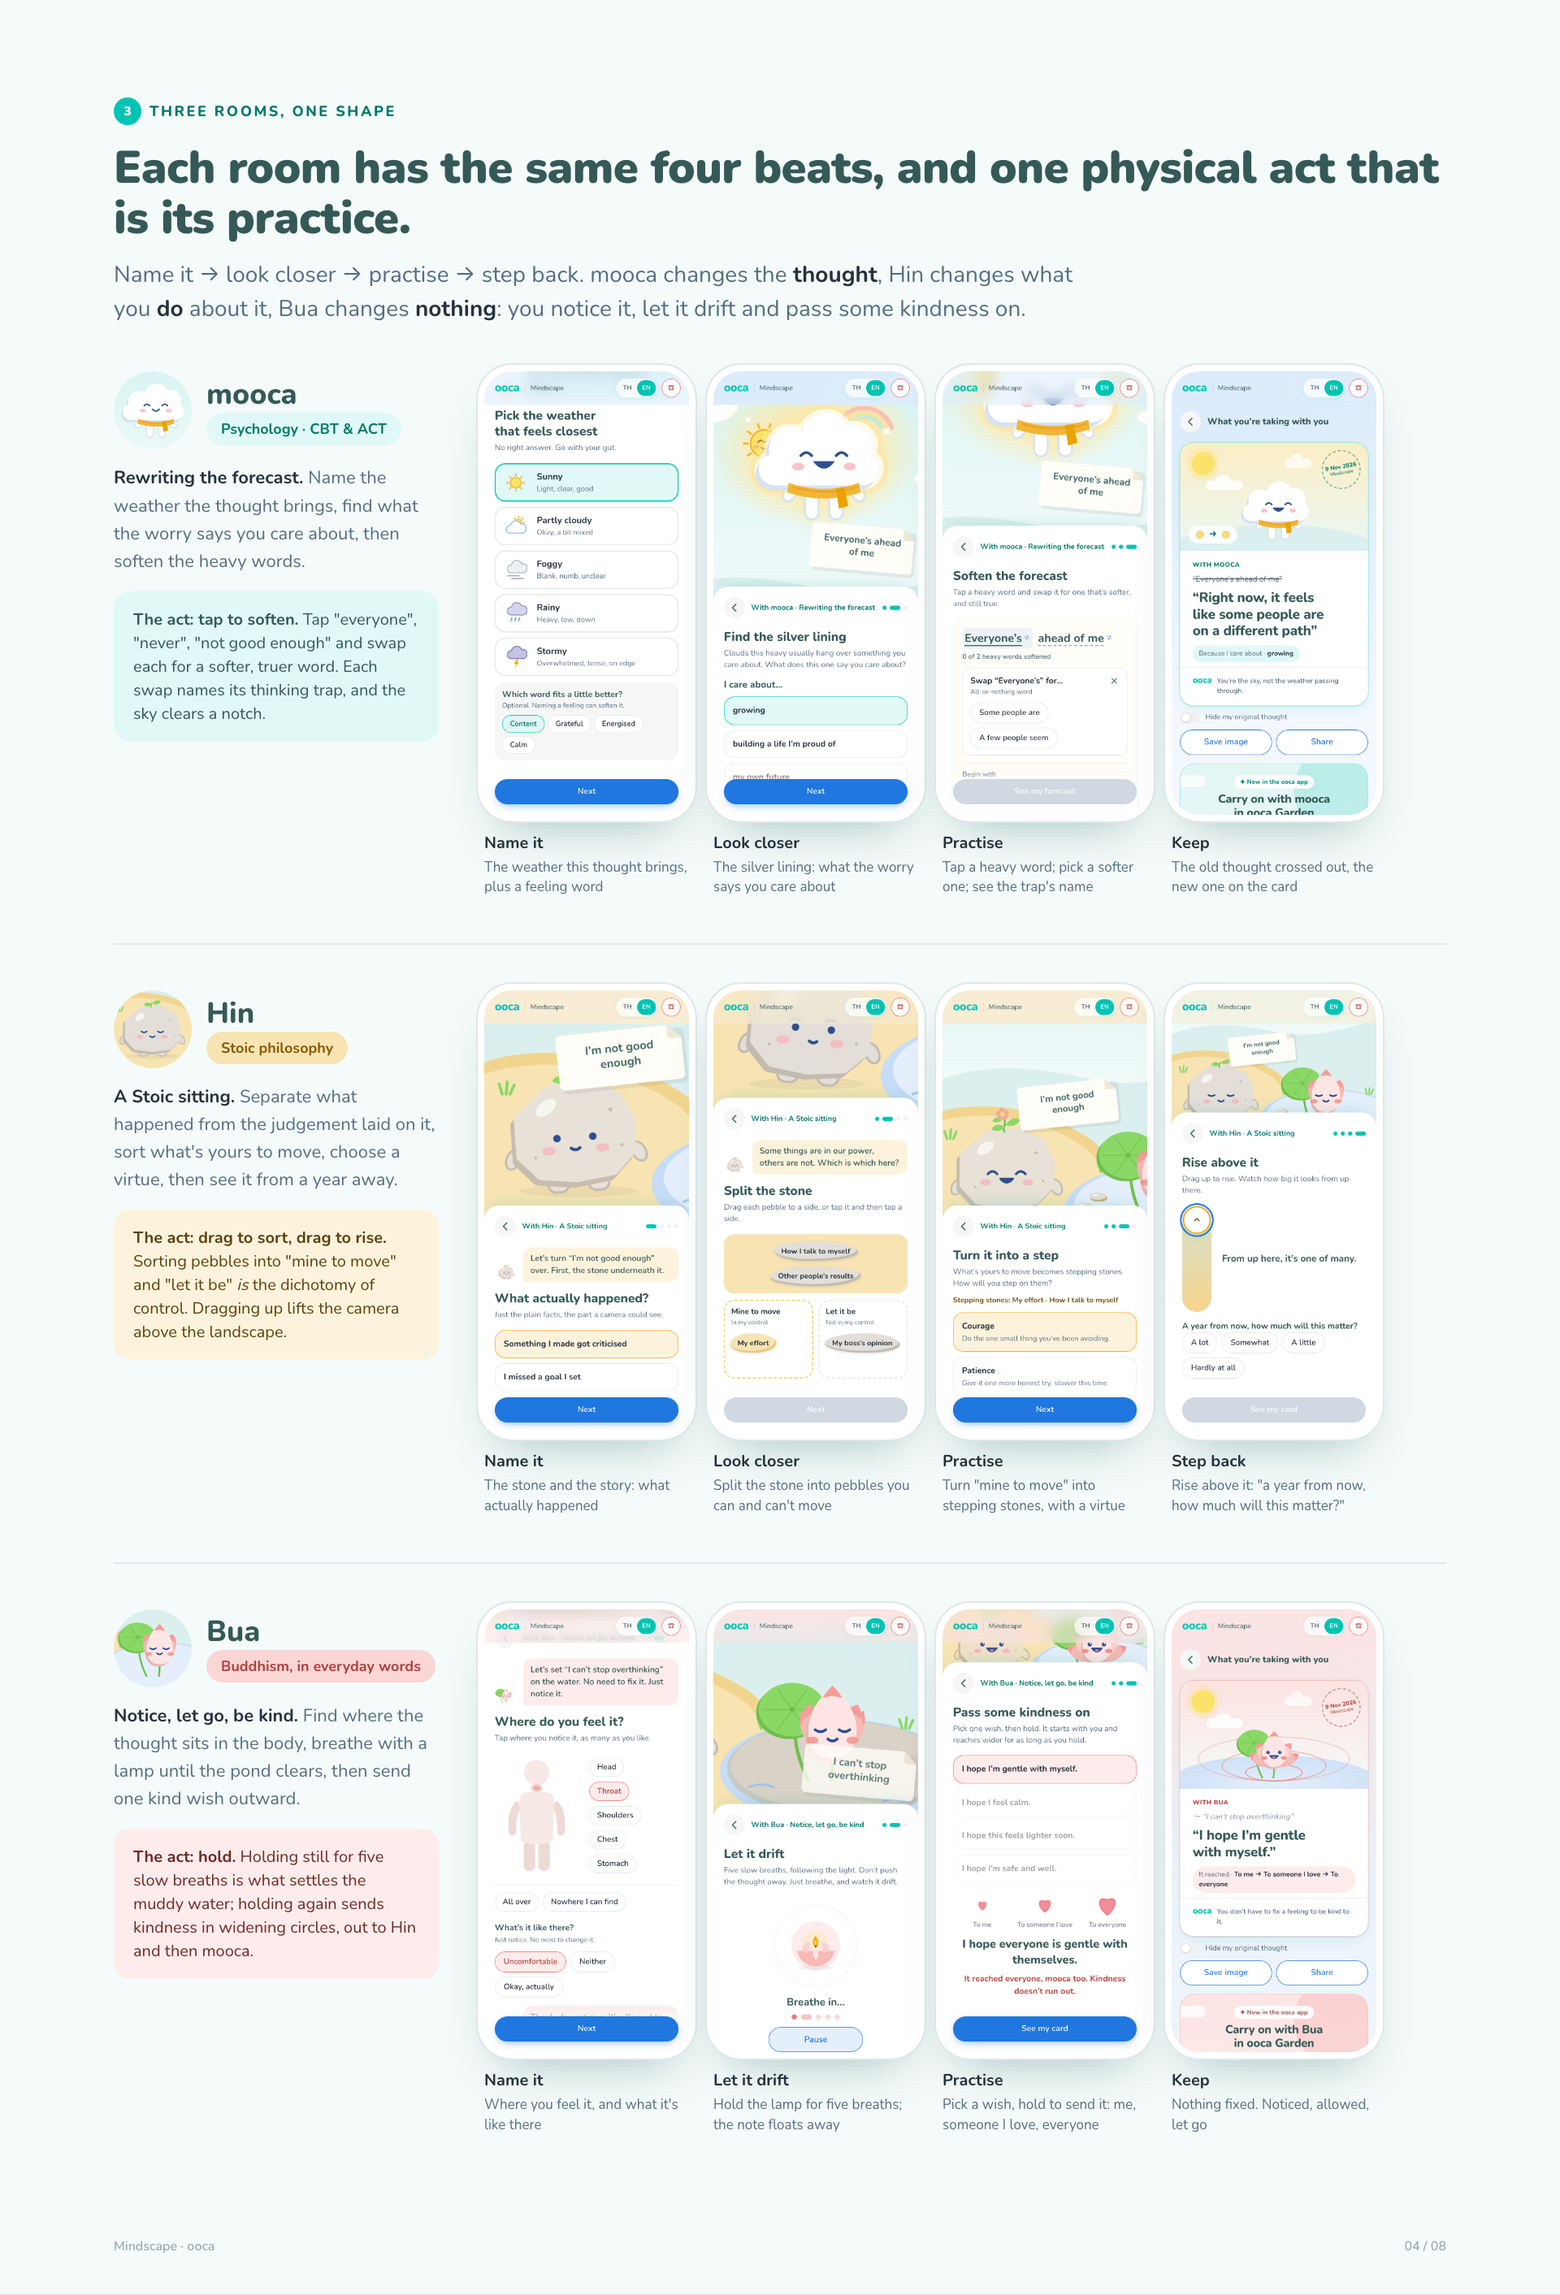
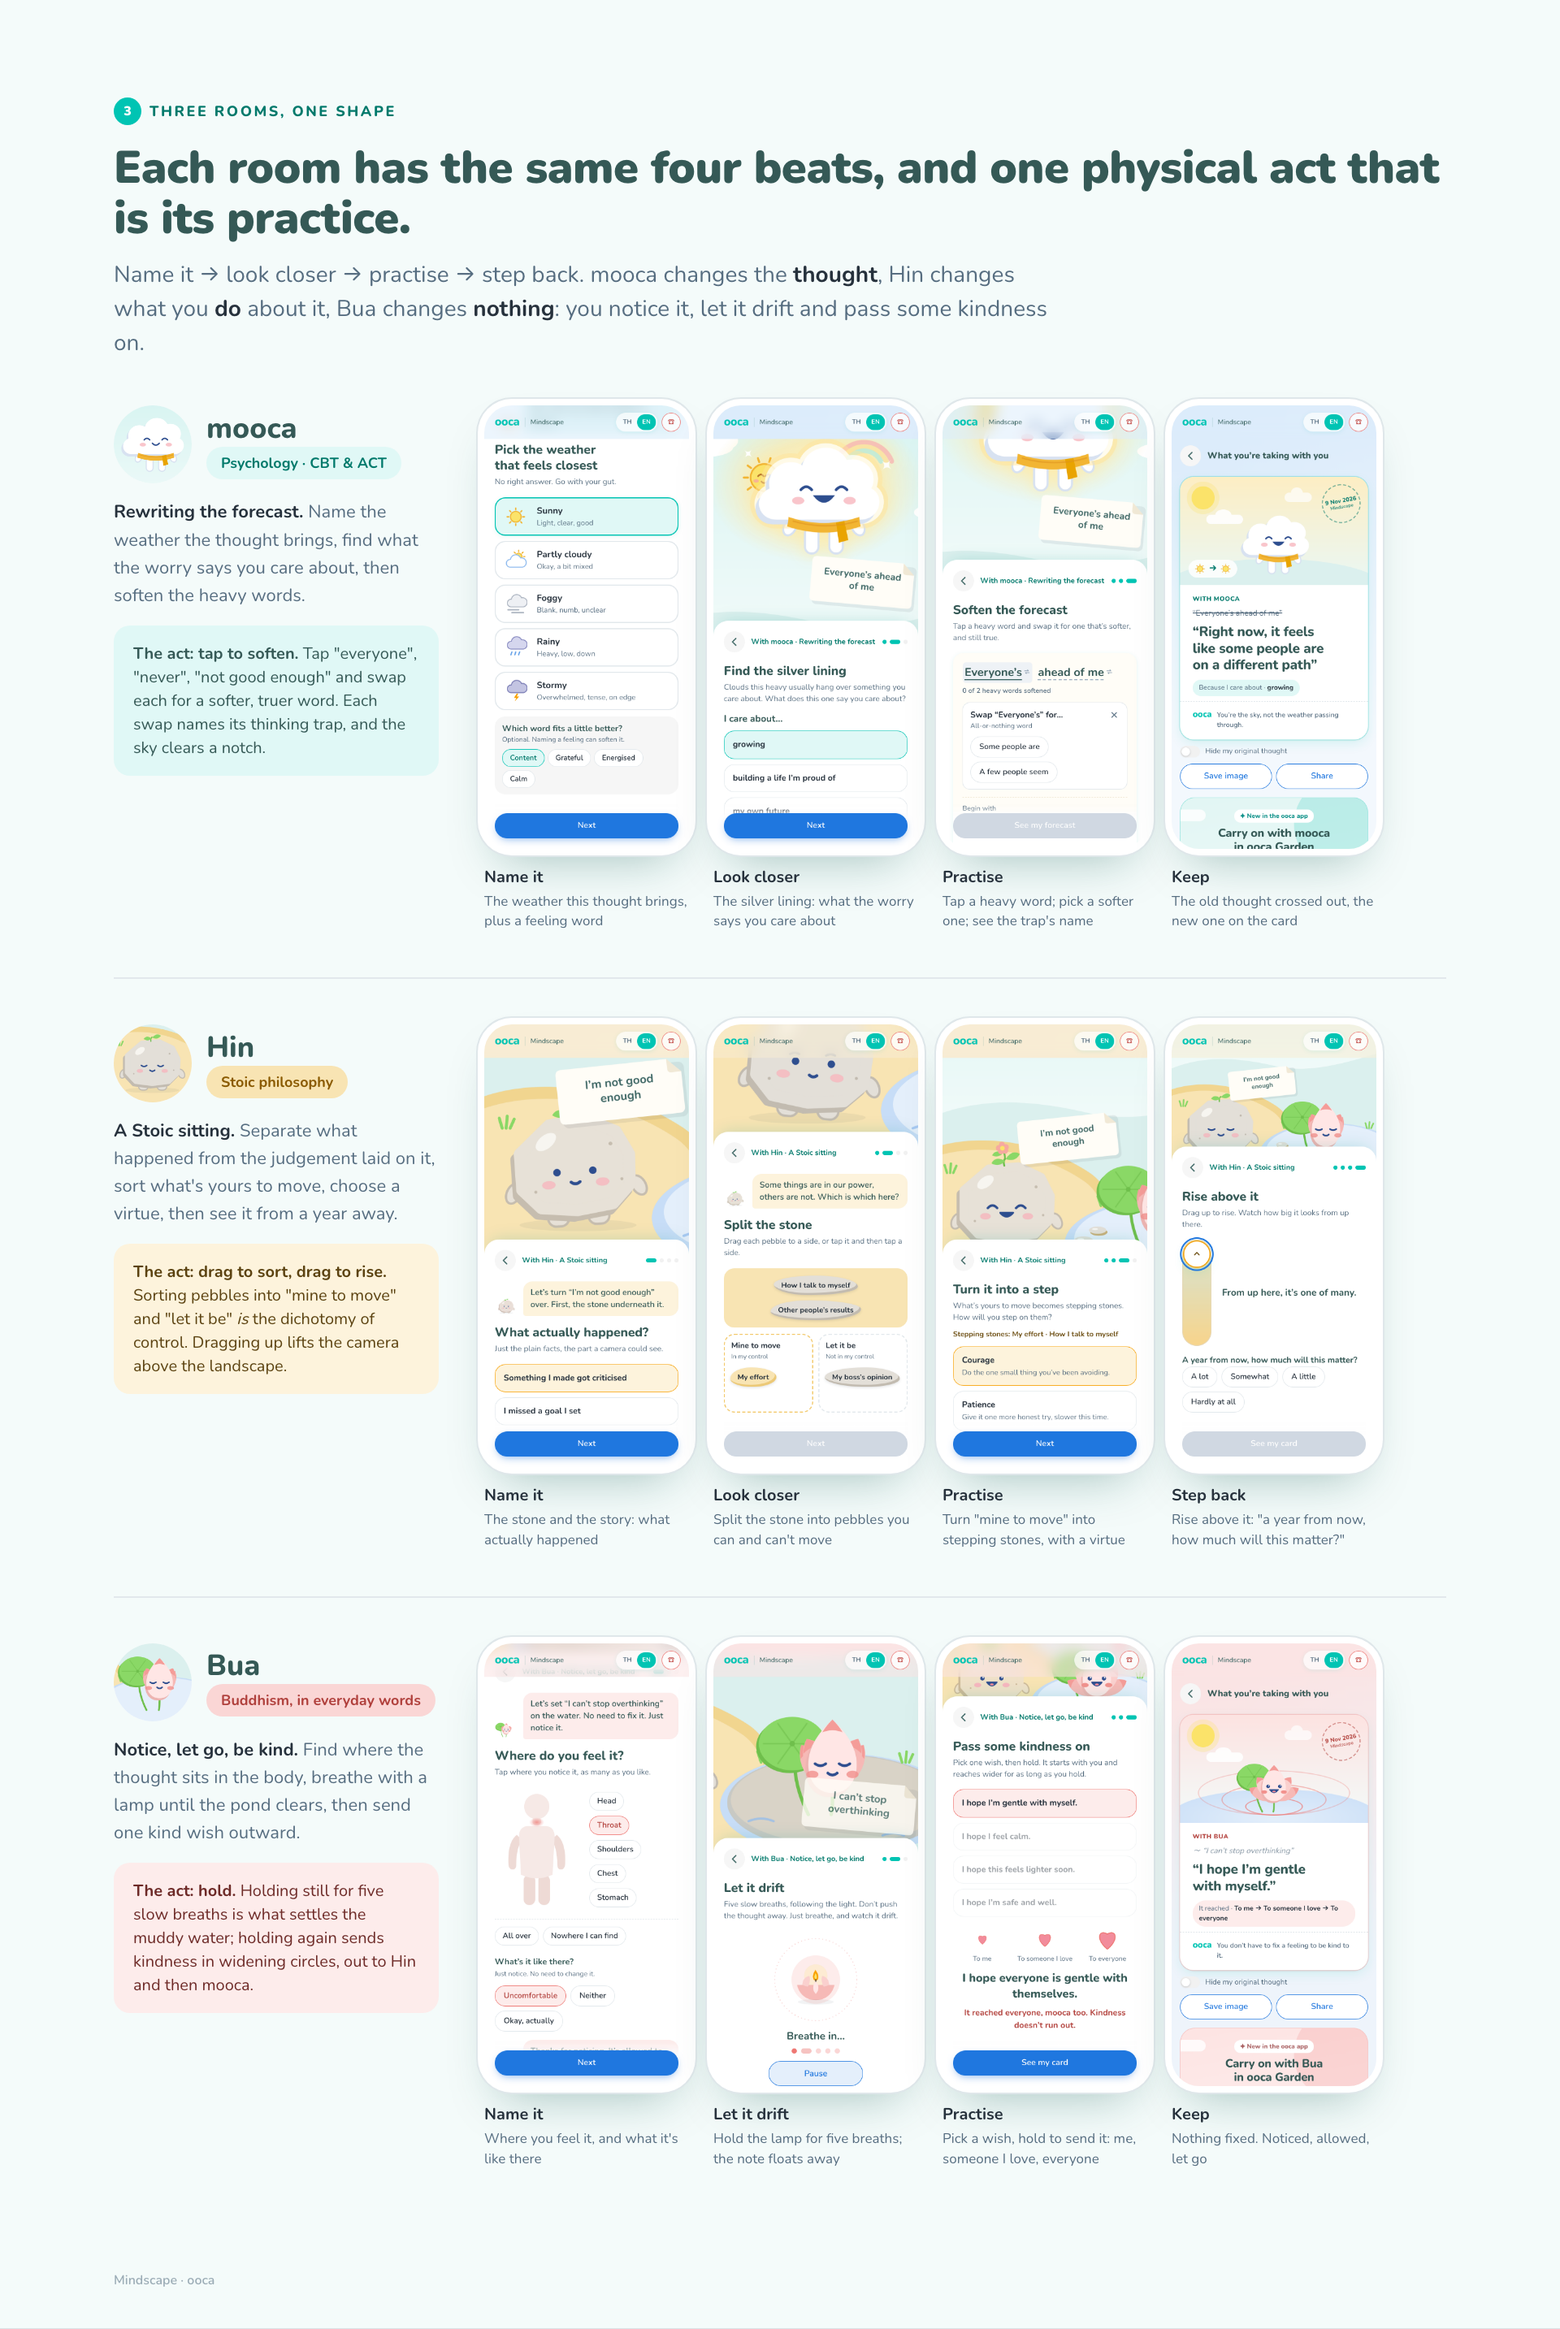
Board: drop page numbers from footers

diff --git a/public/board/index.html b/public/board/index.html
@@ -189,7 +189,7 @@ ul.clean li:before{content:"";position:absolute;left:4px;top:13px;width:10px;hei
     <div class="phone"><img src="screens/m-voices.png" alt=""></div>
     <div class="phone"><img src="screens/hin-ending.png" alt=""></div>
   </div>
-  <div class="foot"><span>Hypothetical assignment. Not related to ooca's product plans.</span><span>01 / 08</span></div>
+  <div class="foot"><span>Hypothetical assignment. Not related to ooca's product plans.</span></div>
 </section>
 
 <!-- 02 OPPORTUNITY -->
@@ -229,7 +229,7 @@ ul.clean li:before{content:"";position:absolute;left:4px;top:13px;width:10px;hei
     <div><span class="step">Step 2 · ooca app</span><h3>ooca Garden</h3><p>Where the companions live: short lessons, daily check-ins, the habit.</p></div>
     <div><span class="step">Step 3 · ooca app</span><h3>ooca psychologist</h3><p>Offered when something heavy has lasted weeks. Always one tap away.</p></div>
   </div>
-  <div class="foot"><span>Mindscape · ooca</span><span>02 / 08</span></div>
+  <div class="foot"><span>Mindscape · ooca</span></div>
 </section>
 
 <!-- 03 JOURNEY -->
@@ -269,7 +269,7 @@ ul.clean li:before{content:"";position:absolute;left:4px;top:13px;width:10px;hei
     <div>Something to keep</div>
     <div>A step sized to how heavy it is</div>
   </div>
-  <div class="foot"><span>Mindscape · ooca</span><span>03 / 08</span></div>
+  <div class="foot"><span>Mindscape · ooca</span></div>
 </section>
 
 <!-- 04 ROOMS -->
@@ -319,7 +319,7 @@ ul.clean li:before{content:"";position:absolute;left:4px;top:13px;width:10px;hei
       <div><div class="phone phone--sm"><img src="screens/bua-ending.png" alt=""></div><p class="cap"><b>Keep</b>Nothing fixed. Noticed, allowed, let go</p></div>
     </div>
   </div>
-  <div class="foot"><span>Mindscape · ooca</span><span>04 / 08</span></div>
+  <div class="foot"><span>Mindscape · ooca</span></div>
 </section>
 
 <!-- 05 FLOW + NEXT STEP -->
@@ -351,7 +351,7 @@ ul.clean li:before{content:"";position:absolute;left:4px;top:13px;width:10px;hei
       <div><div class="phone"><img src="screens/m-crisis.png" alt=""></div><p class="cap"><b>Need help now?</b>In the header on every screen</p></div>
     </div>
   </div>
-  <div class="foot"><span>Mindscape · ooca</span><span>05 / 08</span></div>
+  <div class="foot"><span>Mindscape · ooca</span></div>
 </section>
 
 <!-- 06 ENDING + HANDOFF -->
@@ -366,7 +366,7 @@ ul.clean li:before{content:"";position:absolute;left:4px;top:13px;width:10px;hei
     <div class="card"><span class="k">Care tier</span><p>When it's been heavy for weeks, the poster is replaced by an ooca psychologist and 1323. Nothing to sell.</p></div>
     <div class="card"><span class="k">Did it help?</span><p>"Do you understand yourself a little better?" Yes, a little / Not really. One tap, no score.</p></div>
   </div>
-  <div class="foot"><span>Mindscape · ooca</span><span>06 / 08</span></div>
+  <div class="foot"><span>Mindscape · ooca</span></div>
 </section>
 
 
@@ -407,7 +407,7 @@ ul.clean li:before{content:"";position:absolute;left:4px;top:13px;width:10px;hei
       </div>
     </div>
   </div>
-  <div class="foot"><span>Mindscape · ooca</span><span>07 / 08</span></div>
+  <div class="foot"><span>Mindscape · ooca</span></div>
 </section>
 
 <!-- 09 SAFETY / A11Y / NEXT -->
@@ -452,7 +452,7 @@ ul.clean li:before{content:"";position:absolute;left:4px;top:13px;width:10px;hei
         <li>Booking: the next step links out to ooca and 1323</li>
       </ul></div>
   </div>
-  <div class="foot"><span>Mindscape · ooca · <a href="https://ooca-mindscape.vercel.app">ooca-mindscape.vercel.app</a></span><span>08 / 08</span></div>
+  <div class="foot"><span>Mindscape · ooca · <a href="https://ooca-mindscape.vercel.app">ooca-mindscape.vercel.app</a></span></div>
 </section>
 
 </body>
